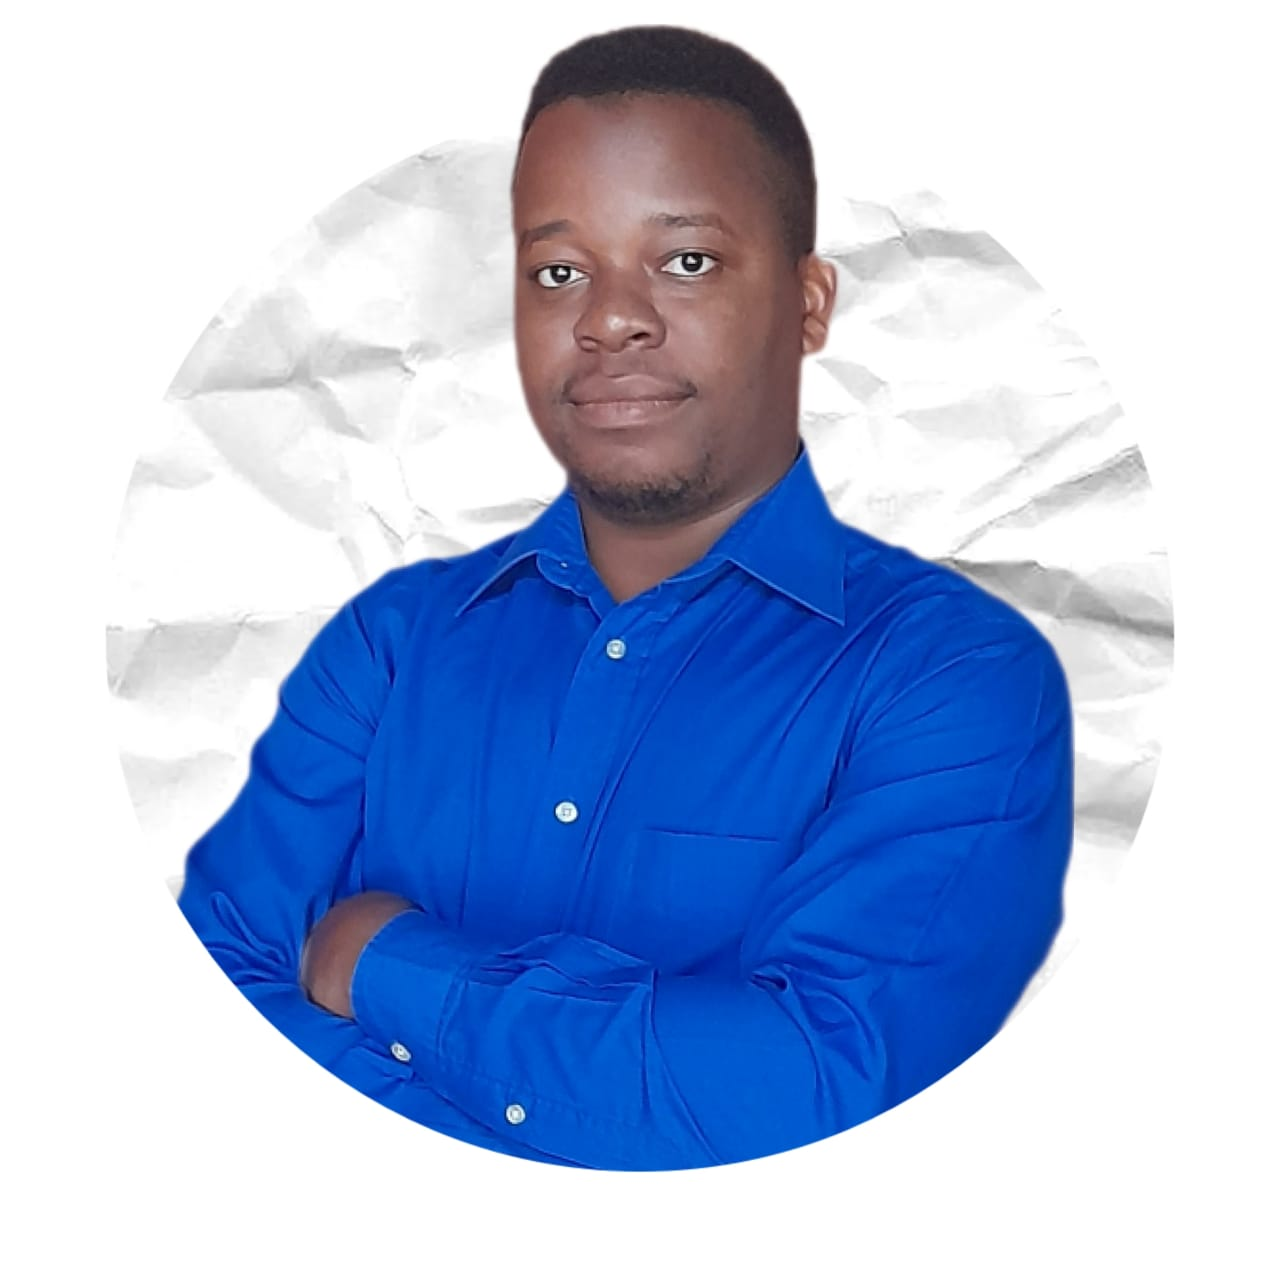
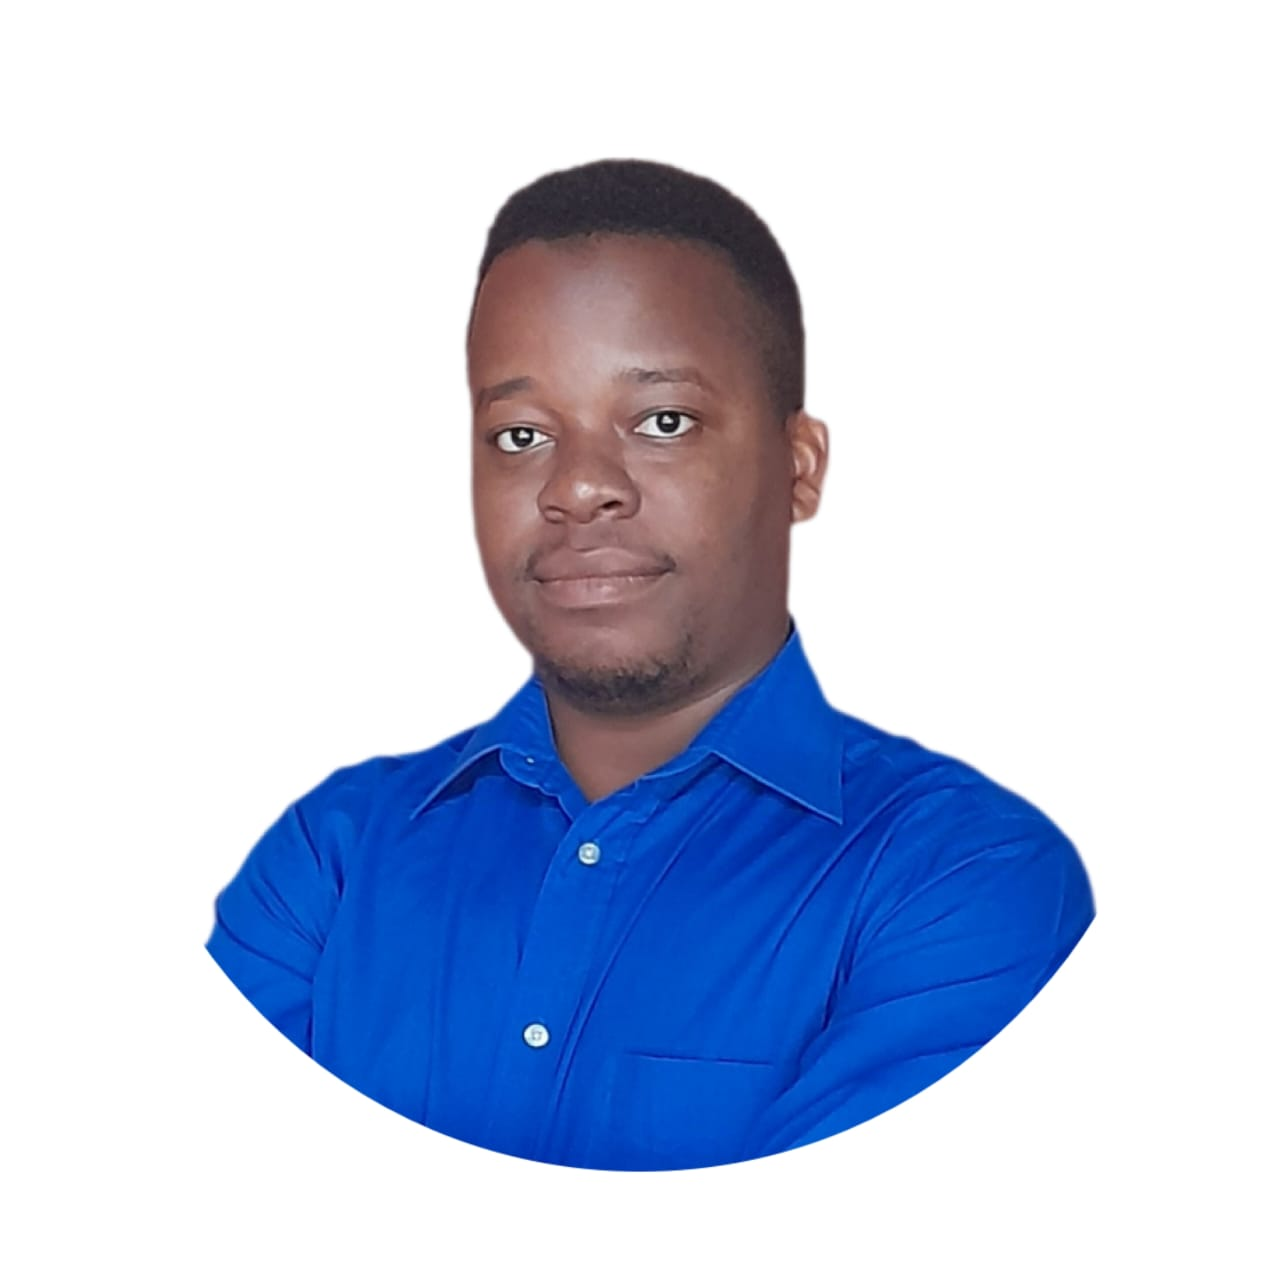
new update

diff --git a/src/Body/Body.js b/src/Body/Body.js
@@ -58,11 +58,11 @@ function Body() {
                         <div class="card1">
                             <div class="container">
                                 <img src={Jogolo} alt="Avatar" class="image"></img>
-                                    <div class="overlay">
-                                        <div class="text1">Real Estate investors, building Kenya step by step.
-                                        <button class="button">View Website</button>
-                                        </div>
+                                <div class="overlay">
+                                    <div class="text1">Real Estate investors, building Kenya step by step.
+                                        <a href='http://jogolo-plaza.000webhostapp.com/'><button class="button">View Website</button></a>
                                     </div>
+                                </div>
                             </div>
                         </div>
                     </div>
@@ -71,11 +71,11 @@ function Body() {
                         <div class="card1">
                             <div class="container">
                                 <img src={Skillz} alt="Avatar" class="image"></img>
-                                    <div class="overlay">
-                                        <div class="text1">E-learning platform, serving the world to create future programmers.
+                                <div class="overlay">
+                                    <div class="text1">E-learning platform, serving the world to create future programmers.
                                         <button class="button">View Website</button>
-                                        </div>
                                     </div>
+                                </div>
                             </div>
                         </div>
                     </div>
@@ -83,16 +83,16 @@ function Body() {
             </div>
             <Contact />
 
-            {/* footer */}            
+            {/* footer */}
             <div className='start'>
                 <div className='row2'>
                     <h2>Start a Project</h2>
                     <p>Keen on cooperating? We ought to line up an opportunity to talk.<br></br> I'll purchase the espresso.</p>
-                    <button className='button'>
+                    <a href='mailto:kimaekahindi@yahoo.com'><button className='button'>
                         <svg xmlns="http://www.w3.org/2000/svg" width="16" height="16" fill="currentColor" class="bi bi-hand-index-thumb" viewBox="0 0 16 16">
                             <path d="M6.75 1a.75.75 0 0 1 .75.75V8a.5.5 0 0 0 1 0V5.467l.086-.004c.317-.012.637-.008.816.027.134.027.294.096.448.182.077.042.15.147.15.314V8a.5.5 0 0 0 1 0V6.435l.106-.01c.316-.024.584-.01.708.04.118.046.3.207.486.43.081.096.15.19.2.259V8.5a.5.5 0 1 0 1 0v-1h.342a1 1 0 0 1 .995 1.1l-.271 2.715a2.5 2.5 0 0 1-.317.991l-1.395 2.442a.5.5 0 0 1-.434.252H6.118a.5.5 0 0 1-.447-.276l-1.232-2.465-2.512-4.185a.517.517 0 0 1 .809-.631l2.41 2.41A.5.5 0 0 0 6 9.5V1.75A.75.75 0 0 1 6.75 1zM8.5 4.466V1.75a1.75 1.75 0 1 0-3.5 0v6.543L3.443 6.736A1.517 1.517 0 0 0 1.07 8.588l2.491 4.153 1.215 2.43A1.5 1.5 0 0 0 6.118 16h6.302a1.5 1.5 0 0 0 1.302-.756l1.395-2.441a3.5 3.5 0 0 0 .444-1.389l.271-2.715a2 2 0 0 0-1.99-2.199h-.581a5.114 5.114 0 0 0-.195-.248c-.191-.229-.51-.568-.88-.716-.364-.146-.846-.132-1.158-.108l-.132.012a1.26 1.26 0 0 0-.56-.642 2.632 2.632 0 0 0-.738-.288c-.31-.062-.739-.058-1.05-.046l-.048.002zm2.094 2.025z" />
                         </svg>  Let's do this
-                    </button>
+                    </button></a>
                 </div>
 
                 <div className='row3'>
@@ -114,13 +114,13 @@ function Body() {
                 <h3>Living, learning, and stepping up each day in turn.</h3>
                 <div className='icons'>
                     <ul>
-                        <li><a href='www.whatsapp.com'><svg xmlns="http://www.w3.org/2000/svg" width="40" height="40" fill="currentColor" class="bi bi-whatsapp" viewBox="0 0 16 16">
+                        <li><a href='https://wa.me/254759719777'><svg xmlns="http://www.w3.org/2000/svg" width="40" height="40" fill="currentColor" class="bi bi-whatsapp" viewBox="0 0 16 16">
                             <path d="M13.601 2.326A7.854 7.854 0 0 0 7.994 0C3.627 0 .068 3.558.064 7.926c0 1.399.366 2.76 1.057 3.965L0 16l4.204-1.102a7.933 7.933 0 0 0 3.79.965h.004c4.368 0 7.926-3.558 7.93-7.93A7.898 7.898 0 0 0 13.6 2.326zM7.994 14.521a6.573 6.573 0 0 1-3.356-.92l-.24-.144-2.494.654.666-2.433-.156-.251a6.56 6.56 0 0 1-1.007-3.505c0-3.626 2.957-6.584 6.591-6.584a6.56 6.56 0 0 1 4.66 1.931 6.557 6.557 0 0 1 1.928 4.66c-.004 3.639-2.961 6.592-6.592 6.592zm3.615-4.934c-.197-.099-1.17-.578-1.353-.646-.182-.065-.315-.099-.445.099-.133.197-.513.646-.627.775-.114.133-.232.148-.43.05-.197-.1-.836-.308-1.592-.985-.59-.525-.985-1.175-1.103-1.372-.114-.198-.011-.304.088-.403.087-.088.197-.232.296-.346.1-.114.133-.198.198-.33.065-.134.034-.248-.015-.347-.05-.099-.445-1.076-.612-1.47-.16-.389-.323-.335-.445-.34-.114-.007-.247-.007-.38-.007a.729.729 0 0 0-.529.247c-.182.198-.691.677-.691 1.654 0 .977.71 1.916.81 2.049.098.133 1.394 2.132 3.383 2.992.47.205.84.326 1.129.418.475.152.904.129 1.246.08.38-.058 1.171-.48 1.338-.943.164-.464.164-.86.114-.943-.049-.084-.182-.133-.38-.232z" />
                         </svg></a></li>
-                        <li><a href='www.whatsapp.com'><svg xmlns="http://www.w3.org/2000/svg" width="40" height="40" fill="currentColor" class="bi bi-messenger" viewBox="0 0 16 16">
-                            <path d="M0 7.76C0 3.301 3.493 0 8 0s8 3.301 8 7.76-3.493 7.76-8 7.76c-.81 0-1.586-.107-2.316-.307a.639.639 0 0 0-.427.03l-1.588.702a.64.64 0 0 1-.898-.566l-.044-1.423a.639.639 0 0 0-.215-.456C.956 12.108 0 10.092 0 7.76zm5.546-1.459-2.35 3.728c-.225.358.214.761.551.506l2.525-1.916a.48.48 0 0 1 .578-.002l1.869 1.402a1.2 1.2 0 0 0 1.735-.32l2.35-3.728c.226-.358-.214-.761-.551-.506L9.728 7.381a.48.48 0 0 1-.578.002L7.281 5.98a1.2 1.2 0 0 0-1.735.32z" />
+                        <li><a href='https://github.com/Qimae'><svg xmlns="http://www.w3.org/2000/svg" width="40" height="40" fill="currentColor" class="bi bi-github" viewBox="0 0 16 16">
+                            <path d="M8 0C3.58 0 0 3.58 0 8c0 3.54 2.29 6.53 5.47 7.59.4.07.55-.17.55-.38 0-.19-.01-.82-.01-1.49-2.01.37-2.53-.49-2.69-.94-.09-.23-.48-.94-.82-1.13-.28-.15-.68-.52-.01-.53.63-.01 1.08.58 1.23.82.72 1.21 1.87.87 2.33.66.07-.52.28-.87.51-1.07-1.78-.2-3.64-.89-3.64-3.95 0-.87.31-1.59.82-2.15-.08-.2-.36-1.02.08-2.12 0 0 .67-.21 2.2.82.64-.18 1.32-.27 2-.27.68 0 1.36.09 2 .27 1.53-1.04 2.2-.82 2.2-.82.44 1.1.16 1.92.08 2.12.51.56.82 1.27.82 2.15 0 3.07-1.87 3.75-3.65 3.95.29.25.54.73.54 1.48 0 1.07-.01 1.93-.01 2.2 0 .21.15.46.55.38A8.012 8.012 0 0 0 16 8c0-4.42-3.58-8-8-8z" />
                         </svg></a></li>
-                        <li><a href='www.whatsapp.com'><svg xmlns="http://www.w3.org/2000/svg" width="40" height="40" fill="currentColor" class="bi bi-linkedin" viewBox="0 0 16 16">
+                        <li><a href='https://www.linkedin.com/in/kimae-ngowa-aa84328b'><svg xmlns="http://www.w3.org/2000/svg" width="40" height="40" fill="currentColor" class="bi bi-linkedin" viewBox="0 0 16 16">
                             <path d="M0 1.146C0 .513.526 0 1.175 0h13.65C15.474 0 16 .513 16 1.146v13.708c0 .633-.526 1.146-1.175 1.146H1.175C.526 16 0 15.487 0 14.854V1.146zm4.943 12.248V6.169H2.542v7.225h2.401zm-1.2-8.212c.837 0 1.358-.554 1.358-1.248-.015-.709-.52-1.248-1.342-1.248-.822 0-1.359.54-1.359 1.248 0 .694.521 1.248 1.327 1.248h.016zm4.908 8.212V9.359c0-.216.016-.432.08-.586.173-.431.568-.878 1.232-.878.869 0 1.216.662 1.216 1.634v3.865h2.401V9.25c0-2.22-1.184-3.252-2.764-3.252-1.274 0-1.845.7-2.165 1.193v.025h-.016a5.54 5.54 0 0 1 .016-.025V6.169h-2.4c.03.678 0 7.225 0 7.225h2.4z" />
                         </svg></a></li>
                     </ul>

diff --git a/src/Contact/Contact.js b/src/Contact/Contact.js
@@ -3,8 +3,7 @@ import './Contact.css';
 
 function Contact() {
     return (
-        <div class="fcf-body">
-
+        <div class="fcf-body" id='contact'>
             <div id="fcf-form">
                 <h2 class="fcf-h3">Contact Me</h2>
 

diff --git a/src/Contact/Contact.css b/src/Contact/Contact.css
@@ -178,3 +178,12 @@ input[type="reset"].fcf-btn-block,
 input[type="button"].fcf-btn-block {
     width: 100%;
 }
+
+@media screen and (max-width: 767px) {
+.fcf-body {
+    margin-left: 20px;
+    margin-right: 20px;
+
+}
+
+}

diff --git a/public/index.html b/public/index.html
@@ -1,5 +1,5 @@
 <!DOCTYPE html>
-<html lang="en">
+<html lang="en" style="scroll-behavior: smooth;">
   <head>
     <meta charset="utf-8" />
     <link rel="icon" href="%PUBLIC_URL%/favicon.ico" />

diff --git a/src/App/App.css b/src/App/App.css
@@ -7,6 +7,7 @@
   background-color: var(--primary-color-blue);
   width: 100%;
   margin: 0;
+  scroll-behavior: smooth;
 }
 
 .App-logo {

diff --git a/src/Header/Header.css b/src/Header/Header.css
@@ -26,7 +26,7 @@
 
 .text img {
     border-radius: 100%;
-    height: 200px;
+    height: 360px;
 }
 
 .header:hover {
